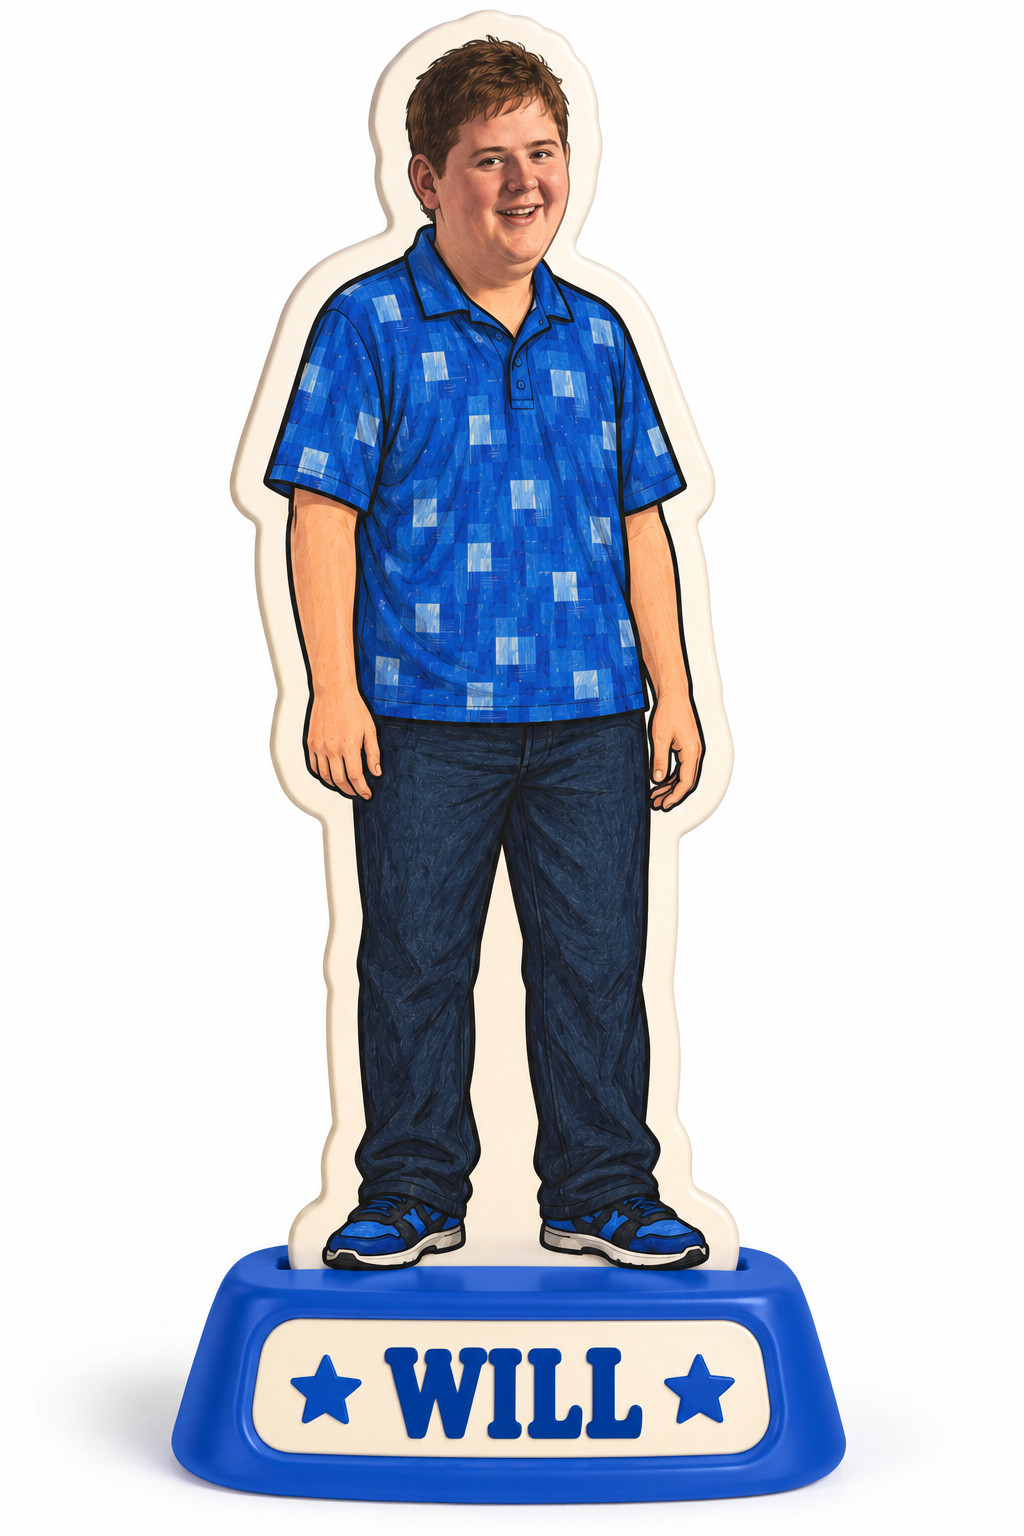
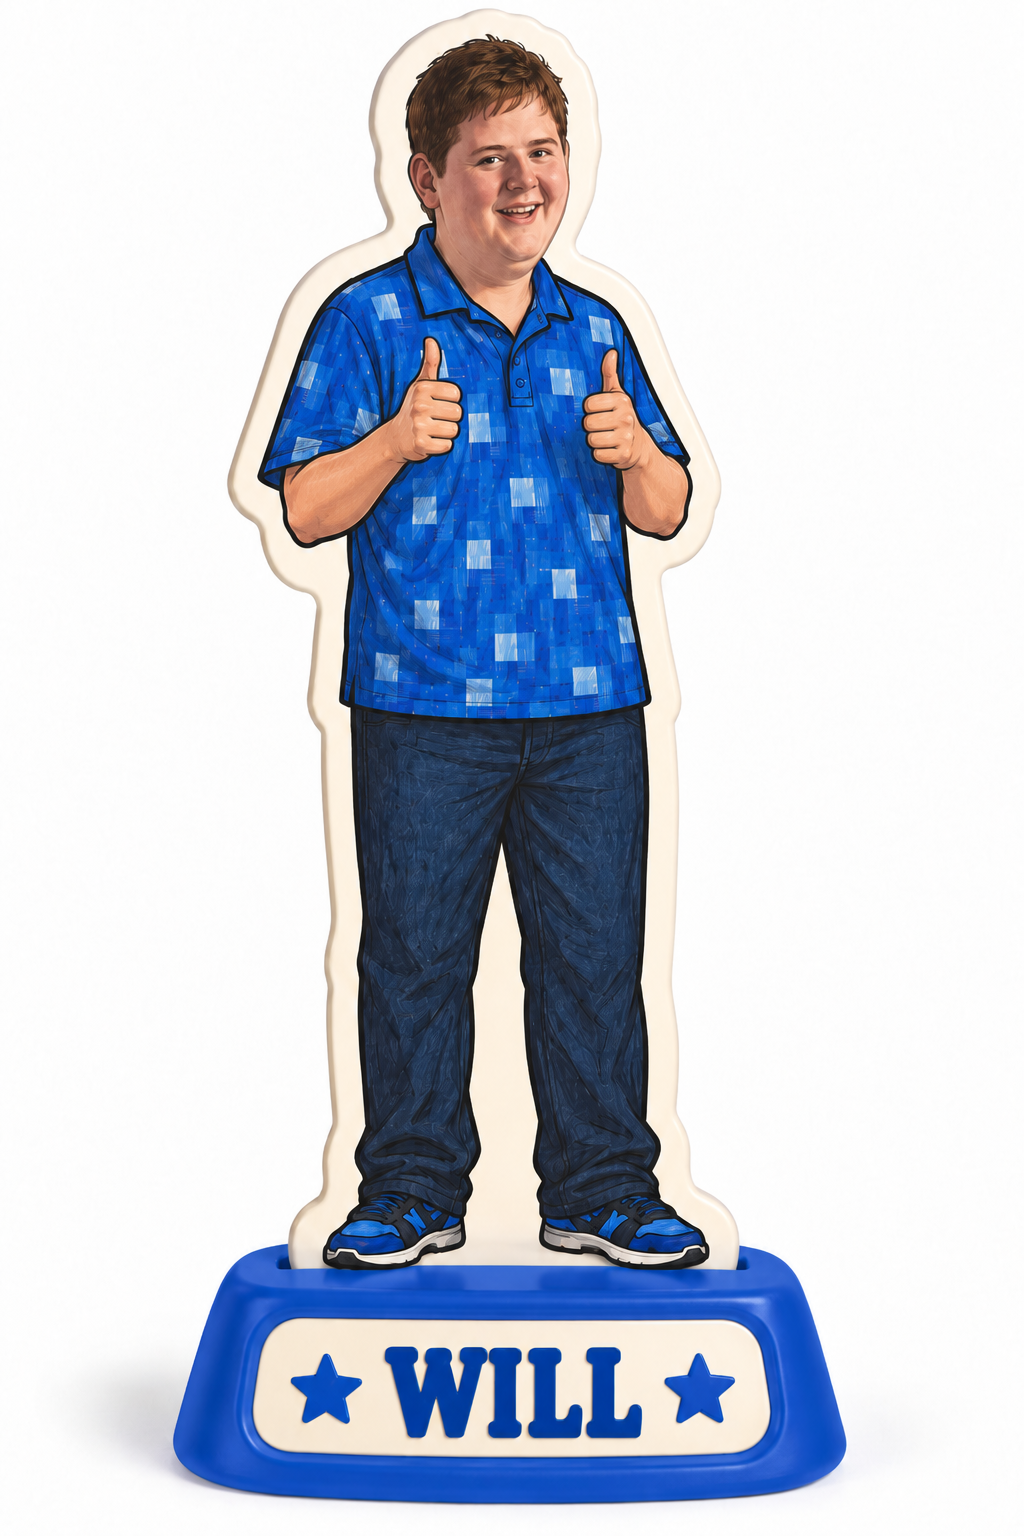
Add cause-related second sentence to each character's dream copy; update Will's playing-piece art
Dream/objective screen only (CHARACTERS[key].dream, read in exactly one
place — dream-text on screen-dream): each character's dream line now
carries a second sentence about a bigger-picture cause they care about,
per finalized copy. The shared "watch out for doubts..." objective line
below it is untouched, and no board/square copy changed (confirmed via
grep — the new sentences appear exactly 4 times, only inside CHARACTERS,
and the board's own per-square story-beat text for Will at squares 8/19/
41 is unchanged).

Re-copied the updated Will-playing-piece.png (now a double-thumbs-up
pose, same style/base as before) from the Web Assets/Game folder,
replacing the old file at the same path. Since every reference to
Will's art already points at that one shared path/token field, the
swap covers all of them automatically: character select, the dream
screen's portrait, and the on-board token. Verified via checksum and
screenshots that all three render the new art with no code changes
needed.

Tested via headless-Chrome CDP: exact dream-copy text for all 4
characters, unchanged objective line, all 3 of Will's art references
resolving to the same updated file, and a real-dice regression roll —
all clean, zero console errors. Verified live on production post-
deploy (dream copy text match + asset checksum match).

Claude-Session: https://claude.ai/code/session_01N4KcyMytrHDoWYLvLuEmvD

diff --git a/public/game.html b/public/game.html
@@ -942,13 +942,13 @@
 
   var CHARACTERS = {
     fran:   { name: 'Fran',   token: 'assets/game/Fran-playing-piece.png',
-              dream: "Fran's dream is to record a bubblegum rap album — music video included." },
+              dream: "Fran's dream is to record a bubblegum rap album — music video included. Beyond that, she's fighting for long-term housing for people with IDD — and wants to help the homeless too." },
     jeremy: { name: 'Jeremy', token: 'assets/game/Jeremy-playing-piece.png',
-              dream: "Jeremy's dream is a ride-along with the cops of Cops." },
+              dream: "Jeremy's dream is a ride-along with the cops of Cops. Beyond that, he's fighting for long-term housing for people with IDD." },
     will:   { name: 'Will',   token: 'assets/game/Will-playing-piece.png',
-              dream: "Will's dream is to write alongside the Star Wars universe — even the fan fiction legends." },
+              dream: "Will's dream is to write alongside the Star Wars universe — even the fan fiction legends. Beyond that, he's fighting for long-term housing for people with IDD — and making sure people like him don't lose their medical coverage." },
     martha: { name: 'Martha', token: 'assets/game/Martha-playing-piece.png',
-              dream: "Martha's dream is a speaking tour across the US." }
+              dream: "Martha's dream is a speaking tour across the US. Beyond that, she's fighting for long-term housing for people with IDD — and pushing for real inclusion legislation." }
   };
 
   // Shared objective line, shown under every character's own dream on
